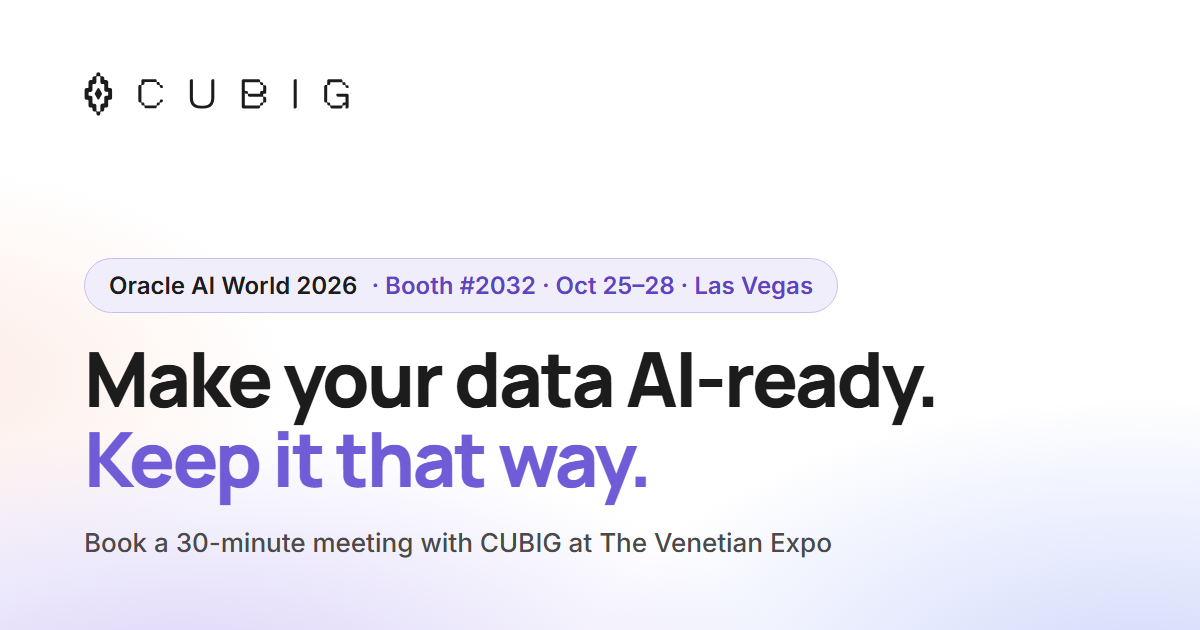
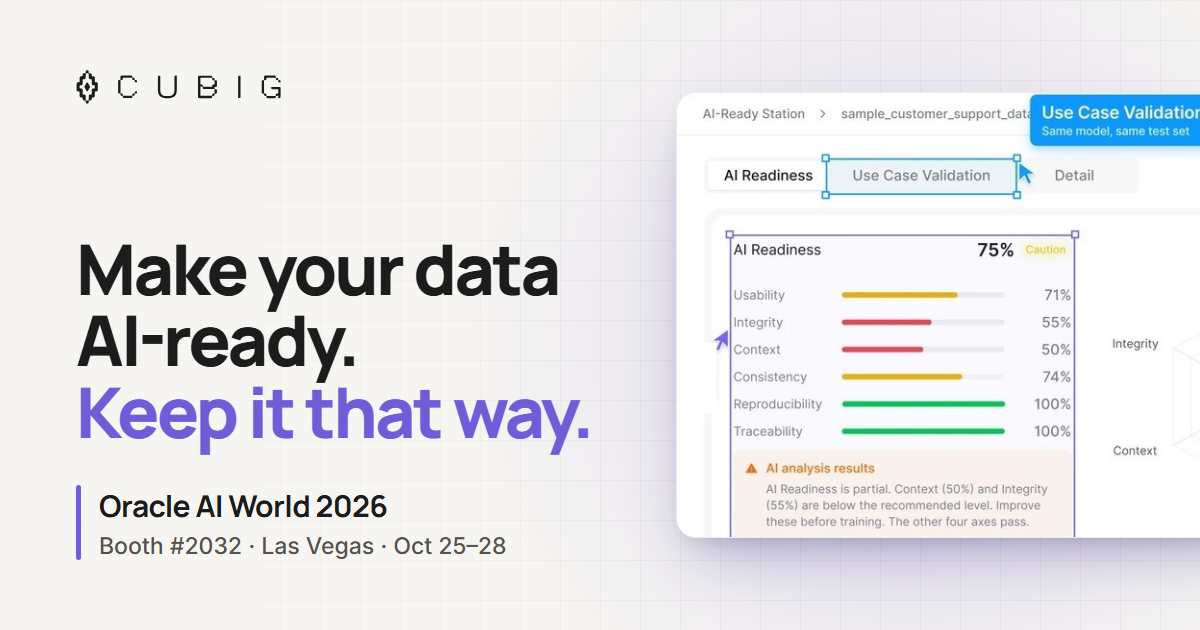
Redesign preview image; remove Korean language toggle

diff --git a/index.html b/index.html
@@ -18,7 +18,7 @@
 <meta property="og:url" content="https://meet-cubig.github.io/oracle-ai-world-2026/">
 <meta property="og:title" content="CUBIG · Oracle AI World 2026 · Booth #2032">
 <meta property="og:description" content="Booth #2032 · The Venetian Expo, Las Vegas · Oct 25–28. Make your data AI-ready and keep it that way.">
-<meta property="og:image" content="https://meet-cubig.github.io/oracle-ai-world-2026/og.png">
+<meta property="og:image" content="https://meet-cubig.github.io/oracle-ai-world-2026/og.png?v=2">
 <meta property="og:image:type" content="image/png">
 <meta property="og:image:width" content="1200">
 <meta property="og:image:height" content="630">
@@ -27,7 +27,7 @@
 <meta name="twitter:card" content="summary_large_image">
 <meta name="twitter:title" content="CUBIG · Oracle AI World 2026 · Booth #2032">
 <meta name="twitter:description" content="Booth #2032 · The Venetian Expo, Las Vegas · Oct 25–28. Make your data AI-ready and keep it that way.">
-<meta name="twitter:image" content="https://meet-cubig.github.io/oracle-ai-world-2026/og.png">
+<meta name="twitter:image" content="https://meet-cubig.github.io/oracle-ai-world-2026/og.png?v=2">
 <link rel="preconnect" href="https://fonts.googleapis.com">
 <link rel="preconnect" href="https://fonts.gstatic.com" crossorigin>
 <link rel="stylesheet" href="https://fonts.googleapis.com/css2?family=Inter:wght@400;500;600;700&family=Manrope:wght@500;600;700;800&display=swap">
@@ -1291,10 +1291,6 @@ p,h2,h3,dd,li{text-wrap:pretty}
       <div class="nl"><a href="#book"><span lang="en">Book a meeting</span><span lang="ko">미팅 예약</span></a><p class="tip ev-only"><span lang="en">30-minute meetings at the CUBIG booth, Oct 26–28.</span><span lang="ko">10월 26–28일, CUBIG 부스에서 30분 미팅.</span></p><p class="tip post-only"><span lang="en">30-minute video calls, 9 am to 10 pm.</span><span lang="ko">오전 9시–오후 10시, 30분 화상 미팅.</span></p></div>
     </div>
     <div class="right">
-      <div class="lang" role="group" aria-label="Language">
-        <button type="button" data-set-lang="ko" aria-pressed="true">한국어</button>
-        <button type="button" data-set-lang="en" aria-pressed="false">EN</button>
-      </div>
     </div>
   </div>
 </nav>
@@ -1696,7 +1692,7 @@ var CONFIG = {
   }
   var q = (location.search.match(/[?&]lang=(ko|en)/) || [])[1], saved = null;
   try { saved = localStorage.getItem('cubig-lang'); } catch(e) {}
-  setLang(q || saved || 'en');
+  setLang('en');   // 한국어 버튼 제거: 영어로 고정 (예전에 한국어로 저장된 방문자도 영어로)
   $$('[data-set-lang]').forEach(function(b){ b.addEventListener('click', function(){ setLang(b.getAttribute('data-set-lang')); }); });
 
   // ----- 행사 상태 (현지 날짜 기준) -----
